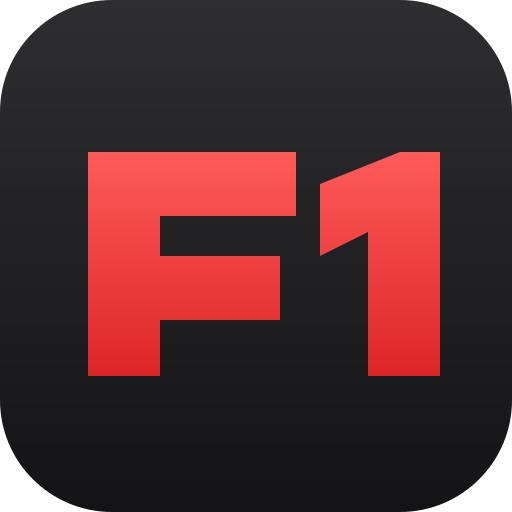
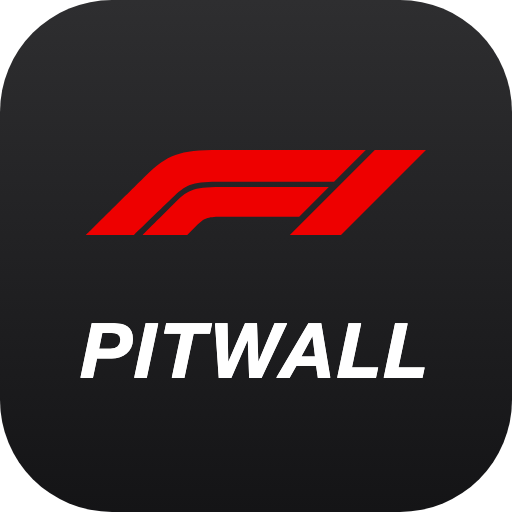
feat: rename the app to F1 Pitwall

Changed region(s): [[0.1562, 0.2812, 0.875, 0.75]]

diff --git a/src/web/App.tsx b/src/web/App.tsx
@@ -50,7 +50,7 @@ export const App = () => {
       <header className="flex flex-wrap items-center gap-1.5 sm:gap-6">
         <button
           onClick={() => go("Countdown")}
-          className="cursor-pointer rounded-md focus-visible:outline-2 focus-visible:outline-offset-4 focus-visible:outline-red-400"
+          className="flex cursor-pointer items-center gap-2.5 rounded-md focus-visible:outline-2 focus-visible:outline-offset-4 focus-visible:outline-red-400"
           aria-label="Go to live session"
           type="button"
         >
@@ -59,6 +59,9 @@ export const App = () => {
             alt="F1"
             className="w-10 min-[390px]:w-14 sm:w-20"
           />
+          <span className="hidden text-[27px] leading-none font-extrabold tracking-wide text-white italic sm:inline">
+            PITWALL
+          </span>
         </button>
         <div className="flex min-w-0 flex-1 justify-center">
           <Tabs

diff --git a/src/web/index.html b/src/web/index.html
@@ -6,10 +6,10 @@
     <meta name="theme-color" content="#09090b" />
     <meta name="apple-mobile-web-app-capable" content="yes" />
     <meta name="apple-mobile-web-app-status-bar-style" content="black" />
-    <meta name="apple-mobile-web-app-title" content="F1" />
+    <meta name="apple-mobile-web-app-title" content="F1 Pitwall" />
     <link rel="icon" type="image/svg+xml" href="./icon.svg" />
     <link rel="apple-touch-icon" href="/apple-touch-icon.png" />
-    <title>F1</title>
+    <title>F1 Pitwall</title>
   </head>
   <body class="min-h-screen bg-zinc-950 text-zinc-100 antialiased">
     <div id="root"></div>

diff --git a/vite.config.ts b/vite.config.ts
@@ -18,8 +18,8 @@ export default defineConfig({
       includeAssets: ["apple-touch-icon.png"],
       manifest: {
         id: "/",
-        name: "F1 Timing",
-        short_name: "F1",
+        name: "F1 Pitwall",
+        short_name: "F1 Pitwall",
         description: "Live F1 timing, replays, and season statistics",
         start_url: "/",
         scope: "/",

diff --git a/README.md b/README.md
@@ -1,6 +1,6 @@
-# f1
+# F1 Pitwall
 
-A private F1 site: live timing, replays of recent sessions, and season stats with a championship clinch calculator.
+F1 Pitwall is a private F1 site: live timing, replays of recent sessions, and season stats with a championship clinch calculator.
 
 - React + Vite + Tailwind in `src/web`, Hono server in `src/server`, shared logic in `src/shared`.
 - Live timing comes from `livetiming.formula1.com`. Results and standings come from Jolpica-F1.
